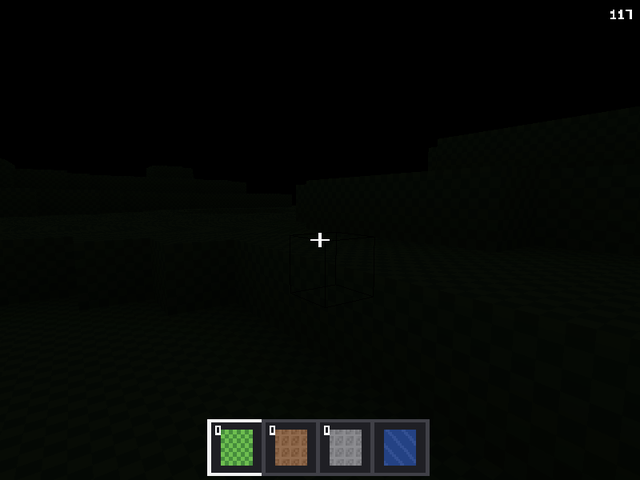
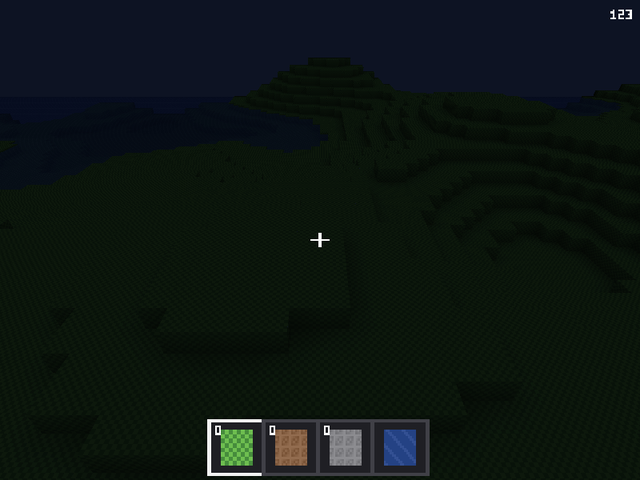
feat(light): cool moonlight at night, 30-minute day/night cycle

Changed region(s): [[0.0, 0.0, 1.0, 0.2812], [0.4688, 0.3125, 0.5, 0.3438]]

diff --git a/native/cf_shim.c b/native/cf_shim.c
@@ -157,15 +157,24 @@ static const char *FS =
      * on/off state, so the cone half-angles are constants rather than uniforms. */
     "const float COS_INNER = 0.97;\n"
     "const float COS_OUTER = 0.88;\n"
+    /* Moonlight: cool and dim, ramping in as the sun sets and gone shortly after
+     * it rises. It is multiplied by v_shade like sunlight is, so it reaches only
+     * sky-exposed surfaces — a sealed cave stays black at night and still needs
+     * the flashlight. MOON_LEVEL is the fraction of full daylight. */
+    "const vec3  MOON_TINT  = vec3(0.60, 0.72, 1.00);\n"
+    "const float MOON_LEVEL = 0.13;\n"
+    "const float MOON_UNTIL = 0.25;\n"
     "void main(){\n"
     "  vec4 t = (u_use_tex == 1) ? texture(u_tex, vec3(v_uv, v_layer)) : vec4(v_uv, v_layer, 1.0);\n"
-    "  float baked = v_shade * mix(0.06, 1.0, u_sun);\n"
+    "  float moon = clamp((MOON_UNTIL - u_sun) / MOON_UNTIL, 0.0, 1.0);\n"
+    "  vec3  sky  = vec3(u_sun) + MOON_TINT * (MOON_LEVEL * moon);\n"
+    "  vec3  baked = v_shade * sky;\n"
     "  vec3  L  = u_eye - v_world;\n"
     "  float d2 = dot(L, L);\n"
     "  vec3  Ln = L * inversesqrt(max(d2, 1e-6));\n"
     "  float spot  = smoothstep(COS_OUTER, COS_INNER, dot(-Ln, u_dir));\n"
     "  float flash = u_flash * spot * max(dot(v_normal, Ln), 0.0) / (1.0 + 0.02 * d2);\n"
-    "  o_color = vec4(t.rgb * (baked + flash), t.a);\n"
+    "  o_color = vec4(t.rgb * (baked + vec3(flash)), t.a);\n"
     "}\n";
 
 static GLuint compile(GLenum kind, const char *src) {

diff --git a/docs/superpowers/specs/2026-09-03-lighting-design.md b/docs/superpowers/specs/2026-09-03-lighting-design.md
@@ -114,7 +114,9 @@ The vertex shader gains `const vec3 NORMALS[6]` and `const float
 FACE_SHADE[6]` indexed by `a_face`, and outputs world position and normal.
 
 ```
-float baked = v_shade * face_shade * mix(0.06, 1.0, u_sun);
+float moon  = clamp((0.25 - u_sun) / 0.25, 0.0, 1.0);
+vec3  sky   = vec3(u_sun) + MOON_TINT * (MOON_LEVEL * moon);
+vec3  baked = v_shade * face_shade * sky;
 vec3  L     = u_eye - v_world;
 float spot  = smoothstep(u_cos_outer, u_cos_inner, dot(normalize(-L), u_dir));
 float flash = u_flash * spot * max(dot(v_normal, normalize(L)), 0.0)
@@ -125,7 +127,18 @@ o_color     = vec4(t.rgb * (baked + flash), t.a);
 One new shim entry point, `cf_gfx_set_light(sun, eye, dir, flash)`, called per
 frame. The cone half-angles `u_cos_inner` / `u_cos_outer` are shader constants,
 not uniforms — the flashlight's beam shape never varies at runtime, only its
-position, aim and on/off state. `u_sun` also drives the clear colour so the sky darkens with the world.
+position, aim and on/off state.
+
+Night is lit by a cool moonlight term (`MOON_TINT` 0.60/0.72/1.00 at
+`MOON_LEVEL` 0.13 of full daylight) that ramps in as the sun drops below 0.25,
+replacing the flat 0.06 ambient floor of the original design. Because it is
+multiplied by `v_shade` exactly as sunlight is, moonlight reaches only
+sky-exposed surfaces: a sealed cave stays black at night and still needs the
+flashlight. The clear colour carries the same ramp so the sky reads as dark navy
+rather than black.
+
+A full day is 1800 seconds (30 minutes) by default; `CF_DAY` overrides it, which
+is what makes night reachable in a screenshot or a headless run. `u_sun` also drives the clear colour so the sky darkens with the world.
 The `mix(0.06, 1.0, u_sun)` floor keeps silhouettes readable at night while
 leaving the flashlight something to do. `cf_win_time()` already exists to drive
 the clock; `F` toggles the flashlight.

diff --git a/todos.md b/todos.md
@@ -14,7 +14,7 @@ Planned, not started. One entry per feature; each gets its own design doc under
 
 - [ ] **Main-thread pinning runtime patch** (GAPS.md G15) — chip spawned, in progress in a separate session.
 - [x] **Greedy meshing + sections + `blit` stdlib candidate** — done 2026-09-03 (`docs/superpowers/specs/2026-09-03-greedy-sections-blit-design.md`): 6x fewer vertices, section remesh 3–5x faster; blit exists as `cf_f32_blit` + `F32Buf.append`.
-- [x] **Lighting** — done 2026-09-03 (`docs/superpowers/specs/2026-09-03-lighting-design.md`, plan `docs/superpowers/plans/2026-09-03-lighting.md`): flood-fill skylight, smooth per-vertex light + AO with quad flip packed into the greedy key, bounded incremental relight, day/night (`CF_DAY`), camera flashlight (F, `CF_FLASH`). Vertex layout 7 -> 8 floats. GAPS G59/G60.
+- [x] **Lighting** — done 2026-09-03 (`docs/superpowers/specs/2026-09-03-lighting-design.md`, plan `docs/superpowers/plans/2026-09-03-lighting.md`): flood-fill skylight, smooth per-vertex light + AO with quad flip packed into the greedy key, bounded incremental relight, day/night on a 30-minute cycle with tinted moonlight (`CF_DAY`), camera flashlight (F, `CF_FLASH`). Vertex layout 7 -> 8 floats. GAPS G59/G60.
 - [ ] **Texture atlas via stb_image** — real block textures; needs `Bytes` across FFI fixed first (GAPS.md G8).
 - [ ] **Chunk streaming with actors** — infinite world, chunk lifecycle as actor state, supervision under load.
 - [ ] **Save/load through the CAS** — persistence keyed by BLAKE3 chunk hashes.

diff --git a/RESULTS.md b/RESULTS.md
@@ -146,6 +146,7 @@ Release build, headless, 8x8 chunks.
 | opaque vertices | 44 364 | **81 792** (+84%) |
 | full-world skylight flood | — | **521 ms** (one-off, at startup) |
 | incremental relight per block edit | — | **~50 ms** debug / ~22 ms release |
+| day/night cycle | — | 1800 s (30 min) by default; `CF_DAY` overrides |
 | mesh all 64 chunks | 755 ms | 1 676 ms |
 
 The opaque vertex rise is the accepted cost of smooth lighting: the greedy mask
